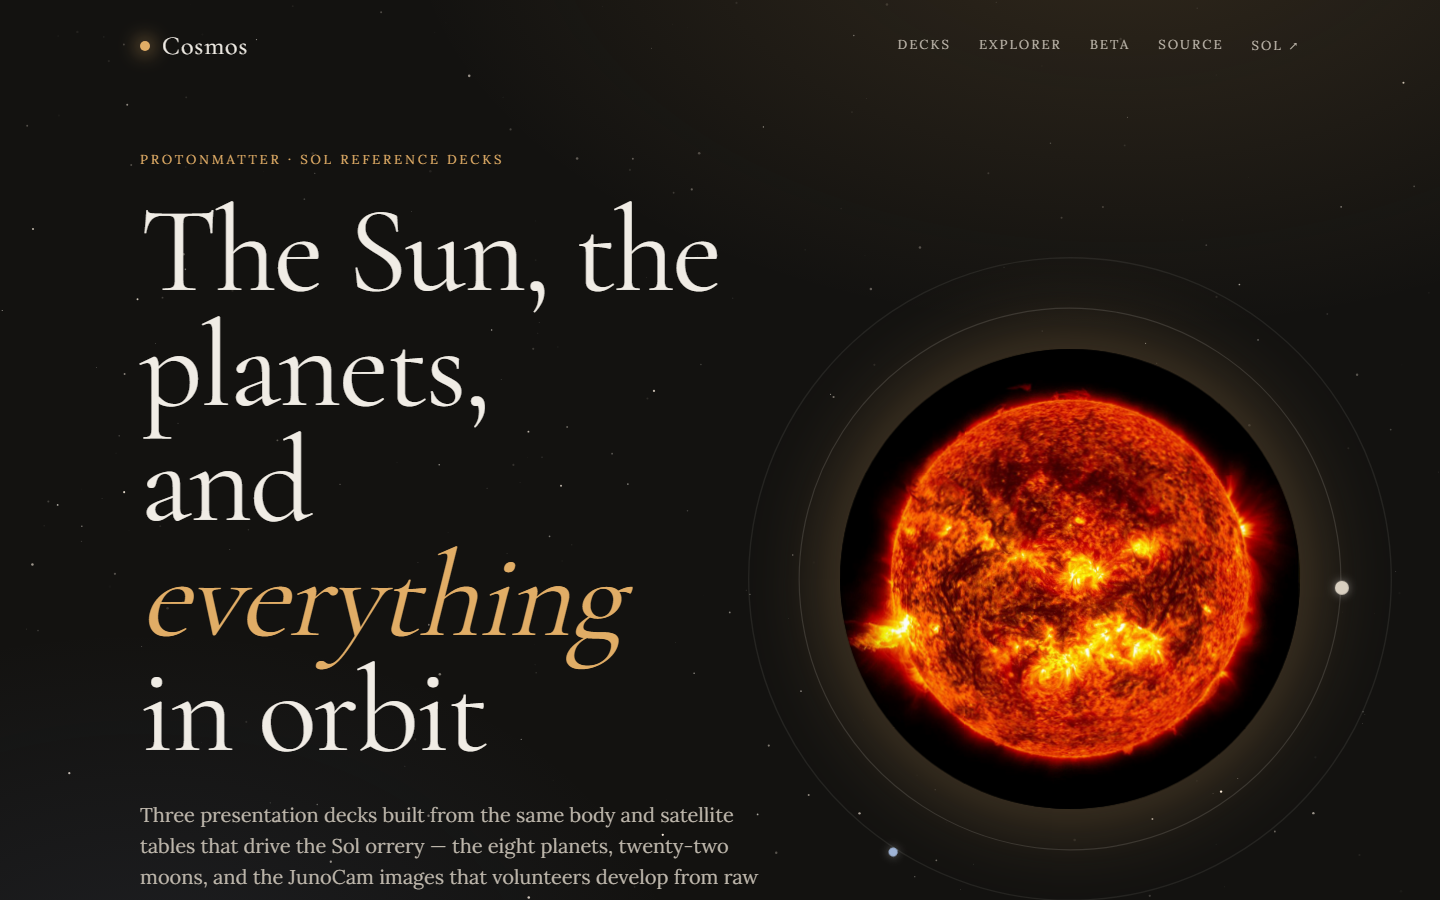
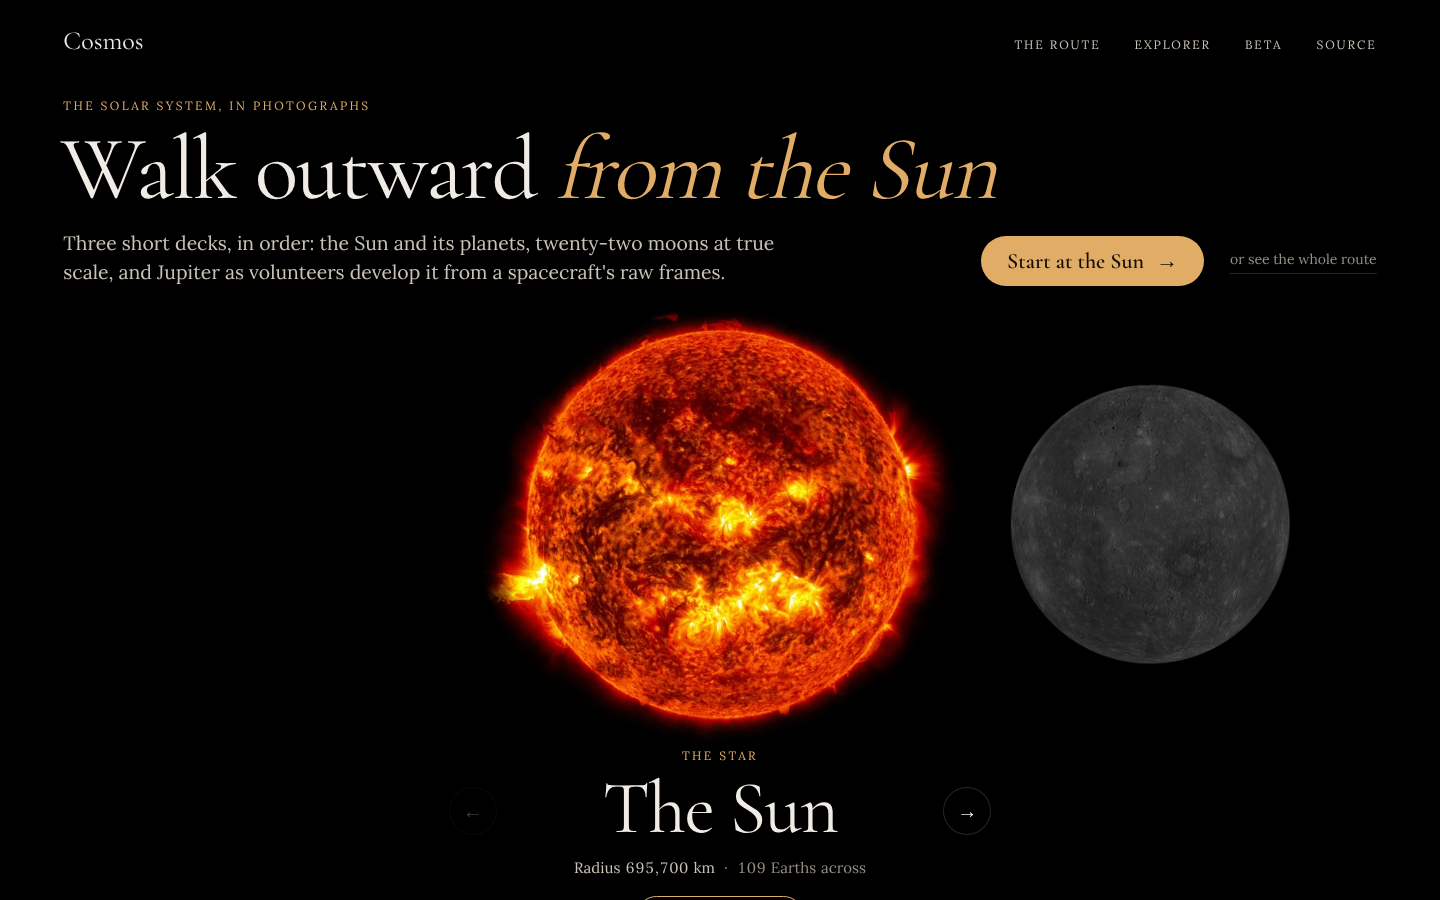
RFC 0009 accepted: specifications, README and changelog
LAND-002 revised, LAND-009 to LAND-017 and FLOW-010 added. The README's
picture of the landing page is retaken.

diff --git a/docs/rfcs/0009-the-landing-page.md b/docs/rfcs/0009-the-landing-page.md
@@ -1,7 +1,7 @@
 ---
 rfc: 0009
 title: The landing page
-status: Draft
+status: Accepted
 author: Protonmatter
 created: 2026-11-28
 updated: 2026-11-28
@@ -40,7 +40,7 @@ What the page does today, read from `index.html` on `main` at `a820425`:
    been true on a phone since RFC 0008.
 4. **It shows almost none of what the site has.** RFCs 0005 to 0007 brought in
    full-size photographs of every body and thirty JunoCam originals. The page
-   shows four small thumbnails and a 1200 px Sun.
+   shows five small thumbnails and a 1200 px Sun.
 5. **It gives no order.** The three decks are three equal cards. They hand on to
    each other inside (`FLOW-006` to `FLOW-008`), but nothing here says where to
    start. The explorer, the richest page on the site, is a row under "Also in
@@ -55,16 +55,18 @@ button: "Start at the Sun". Under them is a row of ten worlds: the Sun, the
 eight planets and the Moon, each its own photograph, large. The one in the
 middle is in focus, with its name, its place in order, its radius and its width
 in Earths, and a button to its slide. The others wait at the edges, smaller and
-dimmed. Swipe, use the arrows or the arrow keys, or choose a name from the line
-under the row. Nothing moves until the visitor moves it.
+dimmed. Swipe, use the arrow keys, press the arrows either side of the name, or
+choose a name from the line under the row. Nothing moves until the visitor
+moves it.
 
 **The route.** Three panels as tall as the photographs in them, in order: the
 Sun and its planets, the moons, Jupiter through JunoCam. Each says what is in
 it and how long it is, and the whole panel opens the deck. A small "then" joins
 each to the next.
 
-**Look closer.** The explorer as a panel of its own, with six of its frames.
-The poster and the Pocket Planetarium are a line each beneath it.
+**Look closer.** The explorer as a panel of its own, with four of its frames,
+square and edge to edge, each under its title and the name of whoever processed
+it. The poster and the Pocket Planetarium are a line each beneath it.
 
 **Sol, once.** At the end, as where the figures come from and where to go next.
 It is not in the top bar and not in the opening. The explorer, which is the end
@@ -73,22 +75,34 @@ of the route, gets the same link, so the walk does not stop at a dead end.
 ## Reference-level explanation
 
 - **One file, no build, as before.** `index.html` carries its own styles and a
-  short script. It uses the photographs already in `planets/`, `moons/` and
-  `images/`, through `srcset`.
-- **The ground is black**, as in the decks and the explorer. The photographs'
-  skies are black, so a planet has no box round it. Three frames whose sky is
-  not quite black (Saturn, Uranus, Neptune) fade out at their edges.
+  short script. The route and the explorer panel use the photographs already in
+  `moons/` and `images/`, through `srcset`.
+- **The ground is black**, as in the decks and the explorer.
 - **The ten photographs are shown at one size.** At one true scale Mercury is a
   speck beside Jupiter, which is what a first version of this row looked like
   and why it was rejected. Each world's size is given in words instead, read
-  from the deck's own figures. Voyager's frames of Uranus and Neptune are mostly
-  sky and are enlarged to match the rest.
+  from the deck's own figures.
+- **The ten are redrawn for the row.** The decks' own files were tried first,
+  enlarged and masked in the stylesheet. One body fills its frame and the next
+  floats in a wide one, Saturn's sky is 3 where the page is 0, and the Sun's
+  glow runs off the edge of its image: measured in the browser the bodies came
+  out between 369 and 534 px tall on a 440 px stage, and the edges of the Sun's
+  and Saturn's frames showed. `tools/world-portraits.py` draws each body from
+  the widest file the deck serves into `site/worlds/`: every round body 90% of
+  the way across a square canvas, on a sky that is black to its last pixel.
+  Nothing is enlarged, so Uranus and Neptune, whose discs are about 1,000 px
+  across in Voyager's frames, stop at 1080 px where the others go to 1440.
+  Saturn is drawn across its rings on a canvas twice as wide as tall, and the
+  Sun a little smaller in its canvas to keep its prominences; the page enlarges
+  those two to match.
+- **A portrait's black never covers its neighbour.** The canvases overlap as
+  the row moves, so each is drawn with `mix-blend-mode: lighten`.
 - **Nothing is sized by the height of the window.** A first version sized the
   worlds with `vh`, and in a short embedded frame they were drawn 63 px wide. A
   page that is shown inside another page cannot trust that unit.
 - **It works without its script.** Every world is visible and every link works
   with scripting off. The script adds the focus on the middle world, the arrows
-  and the index.
+  and the index, and those are hidden until it has run.
 - **No motion of its own.** No canvas, no keyframe animation, no parallax. The
   only transitions answer something the visitor did.
 - **Kept:** the `1`, `2` and `3` keys open the decks. The route section keeps
@@ -109,12 +123,14 @@ Added:
 | ID | Level | Requirement |
 | --- | --- | --- |
 | `LAND-009` | MUST | The page links to Sol exactly once |
-| `LAND-010` | MUST | The opening shows ten worlds in order, each with its photograph and a link to its own slide of the Solar System deck |
-| `LAND-011` | MUST | The Next and Previous controls and the arrow keys change which world is in focus, and choosing a world that is not in focus brings it into focus without leaving the page |
-| `LAND-012` | MUST | With scripting off every world and its link is visible |
+| `LAND-010` | MUST | The opening shows ten worlds in order, each with its photograph and a link to its own slide of the Solar System deck, and each photograph holds at least as many pixels as it is drawn with |
+| `LAND-011` | MUST | The Next and Previous controls, the arrow keys and the names under the row change which world is in focus, and choosing a world that is not in focus brings it into focus without leaving the page |
+| `LAND-012` | MUST | With scripting off every world and its link is visible, and no control is offered that needs the script |
 | `LAND-013` | MUST | The worlds are drawn at least 200 px wide in a window only 200 px high, and at 390 px wide the page does not scroll sideways |
 | `LAND-014` | MUST | Nothing on the page moves unless the visitor acts: no canvas and no running animation |
-| `LAND-015` | MUST | Opening the page at 1440 by 900 fetches no more than 1.5 MB of images |
+| `LAND-015` | MUST | Opening the page at 1440 by 900 fetches no more than 680 kB of images |
+| `LAND-016` | MUST | No world's photograph shows the edge of its frame: the outermost pixels of each are black |
+| `LAND-017` | MUST | The round worlds are drawn at one size: from Mercury to Neptune, Saturn apart, no body is more than 3% larger than another |
 
 Added to `docs/specs/journeys.spec.md`:
 
@@ -127,7 +143,9 @@ Added to `docs/specs/journeys.spec.md`:
 ## Drawbacks
 
 - The page is heavier than it was: it shows real photographs where it showed
-  thumbnails.
+  thumbnails. It fetches 560 kB of images on opening at 1440 by 900.
+- Twenty-eight more image files are committed, 3.6 MB in all, and they must be
+  redrawn if a deck's photograph of a planet is replaced.
 - The row of worlds is not to scale, on a site that makes a point of scale. The
   nameplates carry the sizes, and the Solar System deck's cover is one click
   away.
@@ -141,13 +159,20 @@ Added to `docs/specs/journeys.spec.md`:
   flat image, with links laid over specks.
 - **A to-scale ruler under the row, drawn as coloured discs.** Built and
   rejected: it looked like a diagram stuck under photographs.
+- **Arrows at the edges of the window.** Built and moved: on a tablet they sat
+  on top of the neighbouring planet. They are beside the name they change.
+- **A grid of six explorer frames, cropped and staggered.** Built and replaced:
+  frames of six shapes cropped to one looked like thumbnails again.
 - **Keep Sol in the top bar as well.** Two links is fewer than five, but the
   point is that the page is about what is here.
 
 ## Unresolved questions
 
 - Whether the page should say anything about how long the walk takes.
-- None of this has been tried on a real phone.
+- None of this has been tried on a real phone, or in Safari or Firefox. The
+  arrow keys are the case to check there: in Chromium the browser moves a
+  snapping row one stop per key press by itself, and the page's own handler,
+  which is there for browsers that do not, cannot be told apart from it.
 
 ## Rollout and migration
 

diff --git a/docs/specs/landing.spec.md b/docs/specs/landing.spec.md
@@ -1,7 +1,7 @@
 # Specification — The landing page and the beta preview
 
 **Areas:** `LAND`, `BETA` · **Introduced by:** [RFC 0002](../rfcs/0002-quality-gates-and-cicd.md) ·
-**Status:** Active
+**Revised by:** [RFC 0009](../rfcs/0009-the-landing-page.md) · **Status:** Active
 
 The key words MUST, MUST NOT, SHOULD, SHOULD NOT, and MAY are to be interpreted as
 described in [RFC 2119](https://www.rfc-editor.org/rfc/rfc2119) and
@@ -10,8 +10,9 @@ uppercase.
 
 ## Context
 
-`index.html` is the entry point: it introduces the collection, links every deck, and
-hands off to the Sol orrery. Unlike the decks it is plain HTML with a small inline
+`index.html` is the entry point. It opens with the Sun, the planets and the Moon in a
+row of photographs, sets out the three decks in the order they are meant to be read,
+and hands off to the Sol orrery at the end. Unlike the decks it is plain HTML with a small inline
 script — no runtime, no React.
 
 `beta.html` previews the Pocket Planetarium prototype. It is deliberately kept out
@@ -24,17 +25,44 @@ of search results, and deliberately honest that it is unfinished.
 | ID | Level | Requirement |
 | --- | --- | --- |
 | `LAND-001` | MUST | The landing page links to every deck, the explorer, and the poster |
-| `LAND-002` | MUST | The navigation offers Decks, Explorer, Beta, Source, and Sol |
+| `LAND-002` | MUST | The navigation offers The route, Explorer, Beta and Source |
 | `LAND-003` | MUST | The page links onward to the Sol orrery at its published address |
 | `LAND-004` | MUST | The page links to the beta preview |
 | `LAND-005` | MUST | Every in-page navigation anchor scrolls to a section that exists |
 | `LAND-006` | MUST | The hero heading is rendered and visible |
 | `LAND-007` | SHOULD | Each deck card names the deck it opens |
 | `LAND-008` | SHOULD | Every card and row that opens a deck, the explorer or the poster shows a picture of it |
+| `LAND-009` | MUST | The page links to Sol exactly once |
+| `LAND-010` | MUST | The opening shows ten worlds in order, each with its photograph and a link to its own slide of the Solar System deck, and each photograph holds at least as many pixels as it is drawn with |
+| `LAND-011` | MUST | The Next and Previous controls, the arrow keys and the names under the row change which world is in focus, and choosing a world that is not in focus brings it into focus without leaving the page |
+| `LAND-012` | MUST | With scripting off every world and its link is visible, and no control is offered that needs the script |
+| `LAND-013` | MUST | The worlds are drawn at least 200 px wide in a window only 200 px high, and at 390 px wide the page does not scroll sideways |
+| `LAND-014` | MUST | Nothing on the page moves unless the visitor acts: no canvas and no running animation |
+| `LAND-015` | MUST | Opening the page at 1440 by 900 fetches no more than 680 kB of images |
+| `LAND-016` | MUST | No world's photograph shows the edge of its frame: the outermost pixels of each are black |
+| `LAND-017` | MUST | The round worlds are drawn at one size: from Mercury to Neptune, Saturn apart, no body is more than 3% larger than another |
 
 `LAND-001` is the requirement that keeps the landing page honest as the collection
 grows: a deck that exists but is unreachable from the front door is, for most
 visitors, a deck that does not exist.
+
+`LAND-009` to `LAND-017` were added by [RFC 0009](../rfcs/0009-the-landing-page.md),
+which rebuilt the page, and `LAND-002` was revised by it: Sol left the navigation.
+Before it the page linked to Sol in three places, the first of them above
+everything the site itself has to show.
+
+`LAND-013` records a failure. A version of the row sized its worlds by the height of
+the window, and inside a short embedded frame they were drawn 63 px wide. Nothing on
+the page is sized by that height now.
+
+`LAND-016` and `LAND-017` record another. The decks' own photographs, set side by
+side, came out at ten different sizes, and the edges of three frames showed against
+the page. The row uses portraits redrawn for it by `tools/world-portraits.py`.
+Saturn is left out of `LAND-017` because it is measured across its rings, and the Sun
+because its prominences reach past its disc.
+
+`LAND-015` is set a fifth above what the page fetches as built, 560 kB. Loading all
+ten worlds at once, instead of the ones near the window, takes it to 760 kB.
 
 ### Beta preview
 

diff --git a/README.md b/README.md
@@ -7,16 +7,18 @@ JunoCam — the JunoCam explorer and poster, and a beta iOS prototype called the
 Planetarium. Built as standalone HTML: no build step and nothing to install. Open any file
 in a browser, or serve the folder.
 
-[`index.html`](index.html) is the interactive landing page. It links every deck, the beta
-preview, and on to [Sol](https://protonmatter.github.io/sol/).
+[`index.html`](index.html) is the landing page. It opens on the Sun, the planets and the
+Moon in a row of photographs, each a door to its own slide, then sets out the three decks
+in the order they are meant to be read, the explorer, and at the end the way on to
+[Sol](https://protonmatter.github.io/sol/).
 
-![The Cosmos landing page at desktop size — the hero, with the Sun in orbit lines and the deck navigation](site/readme-landing.png)
+![The Cosmos landing page at desktop size: the headline "Walk outward from the Sun" above a large photograph of the Sun, with Mercury waiting beside it](site/readme-landing.png)
 
 ## What's here
 
 | File | Format | What it covers |
 | --- | --- | --- |
-| [`index.html`](index.html) | landing | Showcase page for the collection, with links to the beta and through to Sol |
+| [`index.html`](index.html) | landing | The way in: ten worlds in a row, the three decks in order, the explorer, the poster and the beta, and on to Sol |
 | [`solar-system.dc.html`](solar-system.dc.html) | 13 slides | The Sun, the eight planets and the Moon — one card each, with radius, mass, gravity, rotation, tilt, temperature, atmosphere and field strength |
 | [`the-moons.dc.html`](the-moons.dc.html) | 18 slides | Twenty-two moons across five systems: Mars, the Galileans, Saturn's ice moons and Titan, the Uranian five, Neptune's three |
 | [`junocam-deck.dc.html`](junocam-deck.dc.html) | 11 slides | JunoCam itself: the instrument, why its images arrive as raw strips, and the volunteers who process them |
@@ -180,6 +182,10 @@ by `tools/cover-lineup.py`. The rest of the deck's images are the `planets/<name
 `tools/image-variants.py`. The Moons deck's images are the `moons/<name>-<width>.webp`
 files, and the JunoCam deck's, the explorer's and the poster's are
 `images/<frame>-<width>.webp`, written the same way.
+The landing page's row of worlds uses `site/worlds/<name>-<width>.webp`: the same ten
+photographs redrawn by `tools/world-portraits.py` so that every body is the same size on
+a sky that is black to its last pixel
+([RFC 0009](docs/rfcs/0009-the-landing-page.md)).
 The older `planets/*.png`, `moons/*.png` and `images/*.png` files remain because the
 Pocket Planetarium still uses them: all thirty of the `images/` frames, and some of
 the others.

diff --git a/CHANGELOG.md b/CHANGELOG.md
@@ -4,6 +4,29 @@ The site is continuously deployed from `main` and carries no version number, so
 entries are dated rather than released. Notable changes only — routine copy fixes
 and image swaps are left to the commit history.
 
+## 2026-11-28
+
+### Changed
+
+- **The landing page, rebuilt round one idea: walk outward from the Sun**
+  ([RFC 0009](docs/rfcs/0009-the-landing-page.md)). It opens on the Sun, the
+  eight planets and the Moon in a row of photographs. The one in the middle is
+  in focus, with its name, its size and a door to its own slide; swipe, use the
+  arrow keys or the arrows beside the name to move along. Each body is redrawn
+  for the row at one size on true black, by `tools/world-portraits.py`. Below
+  the row the three decks are set out in order, then the explorer with four of
+  its frames under their processors' names, the poster and the beta.
+- **Sol is linked once**, at the end, where it was linked three times and had a
+  keyboard shortcut. The explorer, the last stop on the route, links on to it
+  too.
+
+### Removed
+
+- From the landing page: the photograph of the Sun spinning clockwise and the
+  dots orbiting it, the canvas of stars that followed the pointer, the tilt on
+  the cards, and the `S` key. Nothing on the page moves now unless the visitor
+  moves it.
+
 ## 2026-11-26
 
 ### Added

diff --git a/docs/specs/journeys.spec.md b/docs/specs/journeys.spec.md
@@ -31,6 +31,7 @@ that visitor could see.
 | `FLOW-007` | MUST | A visitor can follow the Moons deck's last slide through to the JunoCam deck |
 | `FLOW-008` | MUST | A visitor can follow the JunoCam deck's closing slide through to the explorer |
 | `FLOW-009` | MUST | On an upright phone a reader can swipe from the first slide of the Solar System deck to its last |
+| `FLOW-010` | MUST | From the explorer a visitor can go on to Sol |
 
 `FLOW-004` exists because sharing a link to a particular slide is the main reason
 the fragment is in the URL at all. A deep link that opens the right slide but leaves
@@ -45,3 +46,7 @@ the same reason: the decks are numbered and meant to be read in order.
 
 `FLOW-008` completes the chain. The JunoCam deck's own speaker notes say the
 explorer is where to browse the archive; the slide now links to it.
+
+`FLOW-010` was added by [RFC 0009](../rfcs/0009-the-landing-page.md). The explorer is
+the last stop on the route the landing page sets out, and Sol is where that page
+says to go next, so the explorer says so too.

diff --git a/CONTRIBUTING.md b/CONTRIBUTING.md
@@ -73,6 +73,11 @@ you replace one, or change a radius, redraw it with `python3 tools/cover-lineup.
 (it also needs NumPy), and move the names on the cover slide to the positions it
 prints.
 
+The landing page's row of worlds is drawn from those files too. If you replace a
+planet's photograph, measure the new one, update its line in
+`tools/world-portraits.py`, and run it: it rewrites `site/worlds/` and prints the
+size and the edge of each portrait, which `--check` repeats without redrawing.
+
 ## Adding or changing a slide
 
 Every slide has two layouts. On anything but an upright phone or small tablet it is
